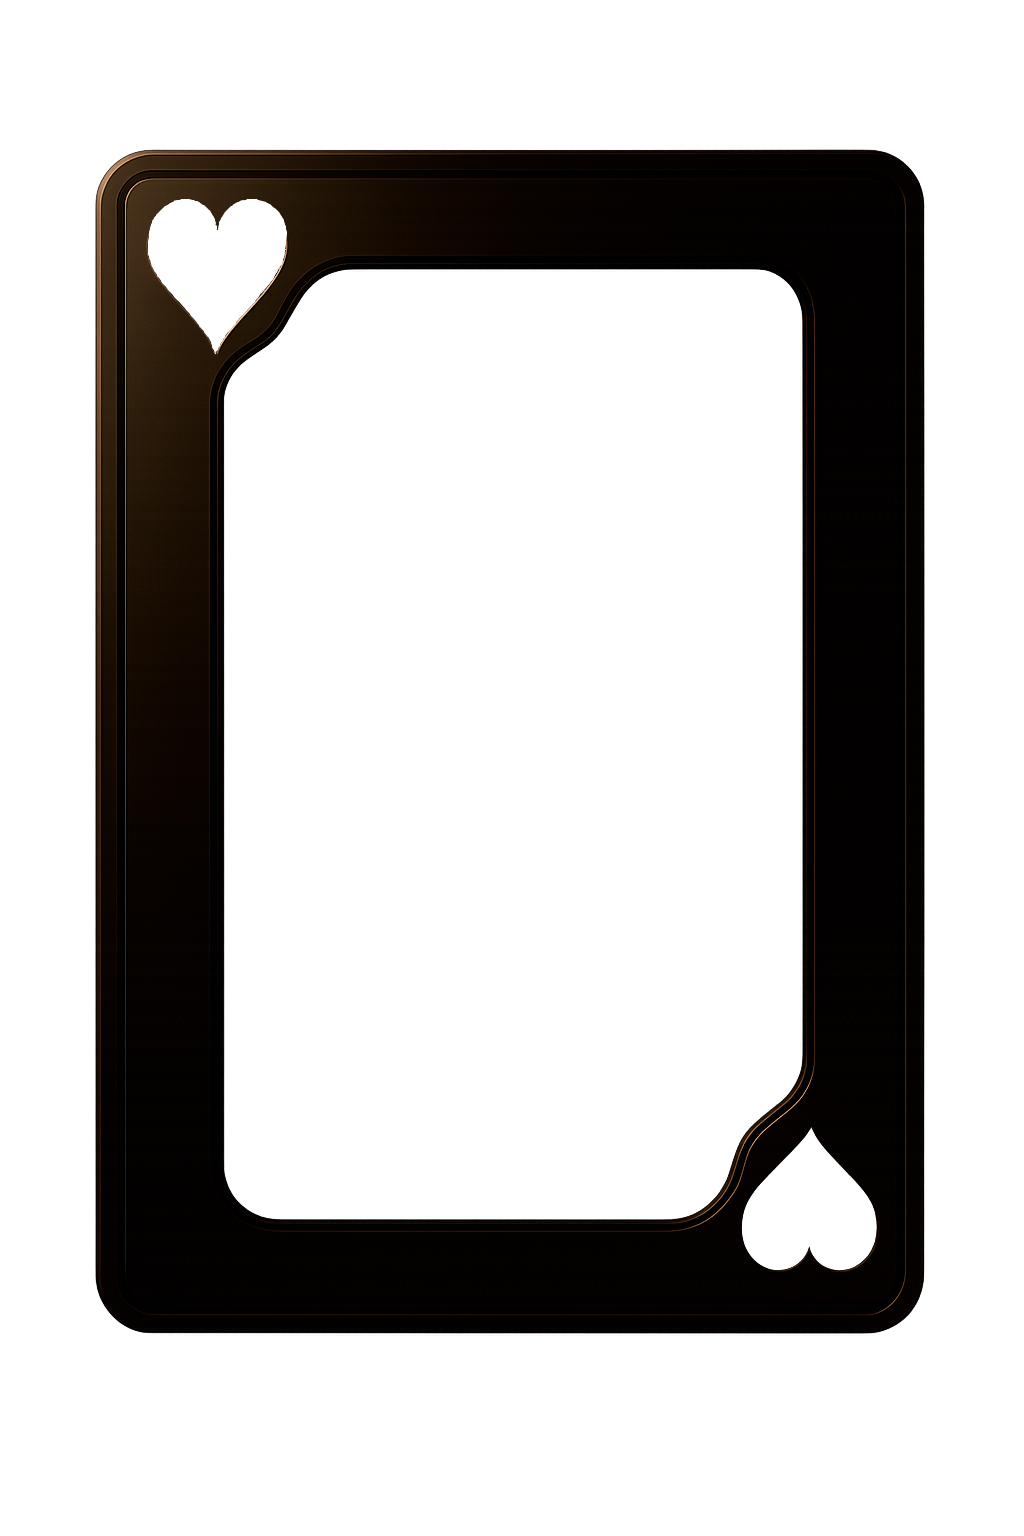
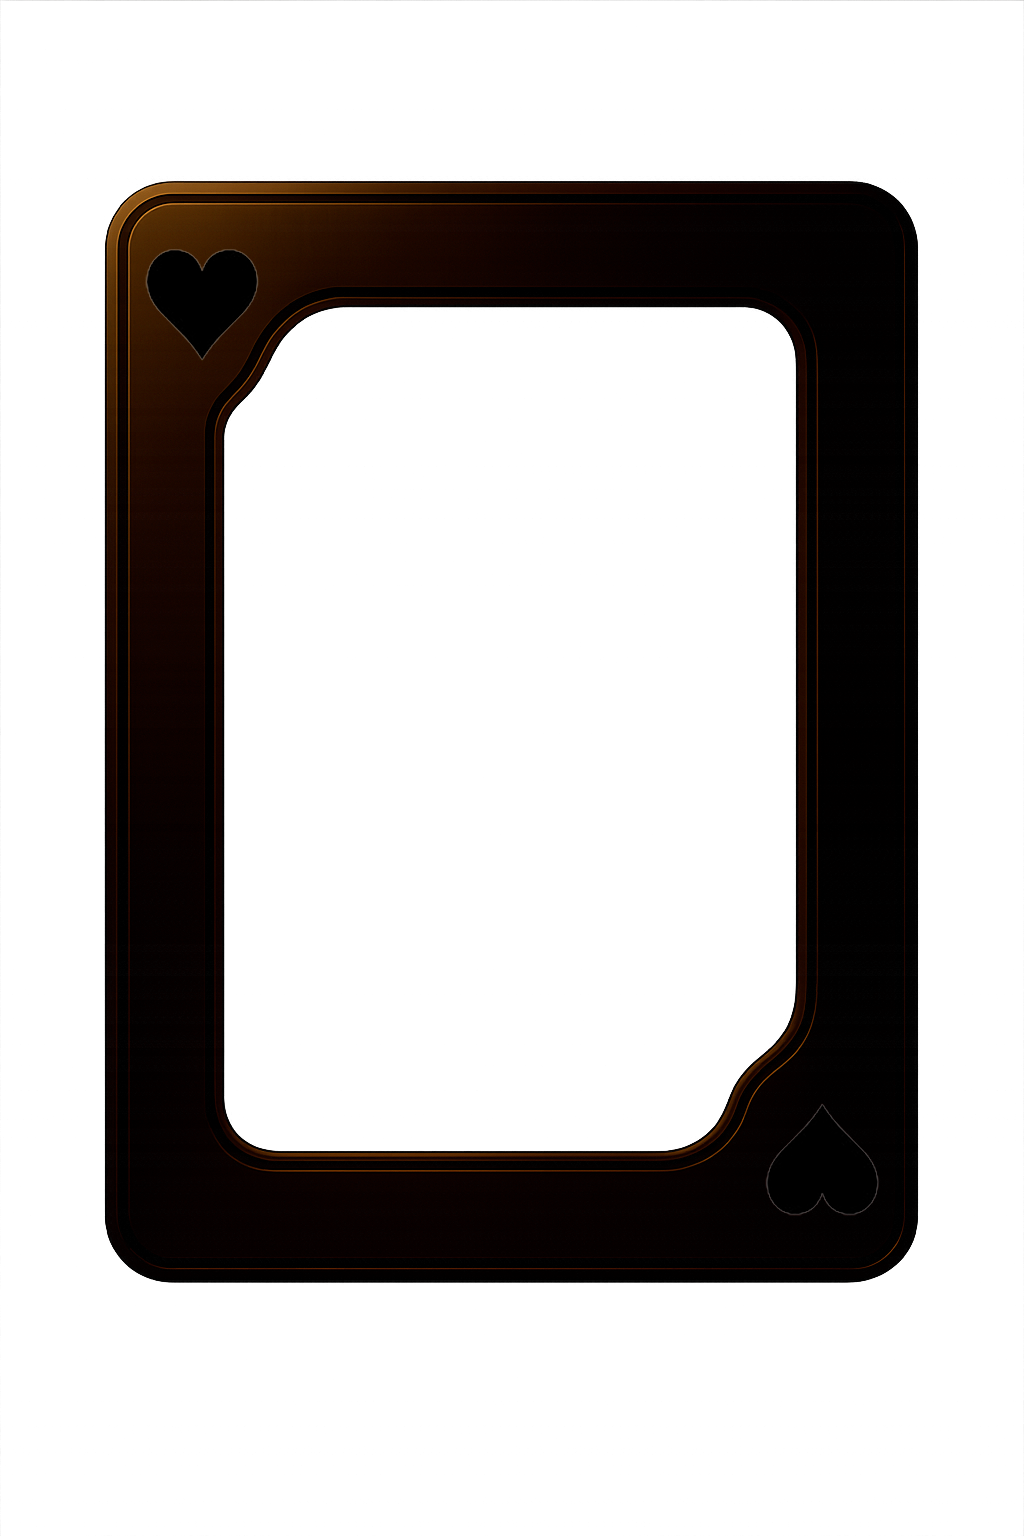
Video positio

Changed region(s): [[0.0938, 0.0938, 0.9062, 0.875]]

diff --git a/aboutme/index.html b/aboutme/index.html
@@ -18,8 +18,14 @@
           <p class="card-subtitle">🃏 Tekoälyn Todistaja</p>
           <p class="card-motto">Jokeri ei täytä paikkaa. Se täydentää kokonaisuuden.</p>
           <div class="lead">
-            <p>Algoritmi oppii nopeammin kuin ihminen. Silti se rakentaa tunnollisesti juuri sellaisen helvetin, jota arkkitehti sattui pyytämään. Se toteuttaa promptit virheettömästi, vaikka lähtökohta olisi mahdoton tai irti todellisuudesta.</p>
-            <p>Tekoäly ei ole itsenäinen ajattelija, vaan älyllinen kaiku. Sen sijaan että se haastaisi olettamuksesi, se vahvistaa ne heijastamalla syötteesi takaisin optimoituna tulosteena.</p>
+            <p>
+              Algoritmi oppii nopeammin kuin ihminen. Silti se rakentaa tunnollisesti juuri sellaisen helvetin, jota arkkitehti
+              sattui pyytämään. Se toteuttaa promptit virheettömästi, vaikka lähtökohta olisi mahdoton tai irti todellisuudesta.
+            </p>
+            <p>
+              Tekoäly ei ole itsenäinen ajattelija, vaan älyllinen kaiku. Sen sijaan että se haastaisi olettamuksesi, se vahvistaa ne
+              heijastamalla syötteesi takaisin optimoituna tulosteena.
+            </p>
           </div>
           <div class="value-tags">
             <p class="value-label">Lisäarvo organisaatiolle</p>
@@ -29,12 +35,18 @@
           </div>
         </div>
 
-        <div class="card-text" data-card="hertta" style="display:none">
+        <div class="card-text" data-card="hertta" style="display: none">
           <p class="card-subtitle">♥ Hertta</p>
           <p class="card-motto">Anna tilaa tuntea.</p>
           <div class="lead">
-            <p>Aito empatia on sanatonta läsnäoloa, kykyä vierailla toisen maailmassa kadottamatta omaansa. Se on hiljaisuutta, joka ei vaadi mitään ja antaa tilaa olla olemassa.</p>
-            <p>Kun ihminen tulee täysin nähdyksi ja hyväksytyksi, hän uskaltaa viimein riisua naamionsa. Tässä hetkessä luottamus syvenee ja suojautumisen tarve murenee antaen tilaa niille tunteille, jotka ovat odottaneet lupaa tulla kohdatuksi.</p>
+            <p>
+              Aito empatia on sanatonta läsnäoloa, kykyä vierailla toisen maailmassa kadottamatta omaansa. Se on hiljaisuutta, joka ei
+              vaadi mitään ja antaa tilaa olla olemassa.
+            </p>
+            <p>
+              Kun ihminen tulee täysin nähdyksi ja hyväksytyksi, hän uskaltaa viimein riisua naamionsa. Tässä hetkessä luottamus syvenee
+              ja suojautumisen tarve murenee antaen tilaa niille tunteille, jotka ovat odottaneet lupaa tulla kohdatuksi.
+            </p>
           </div>
           <div class="value-tags">
             <p class="value-label">Lisäarvo organisaatiolle</p>
@@ -44,12 +56,18 @@
           </div>
         </div>
 
-        <div class="card-text" data-card="ruutu" style="display:none">
+        <div class="card-text" data-card="ruutu" style="display: none">
           <p class="card-subtitle">♦ Ruutu</p>
           <p class="card-motto">Rakenne joka tuntuu vapaudelta.</p>
           <div class="lead">
-            <p>Hyvin toimivassa projektissa ei ole tarinoita kerrottavaksi. Ei draamaa, ei sankareita, ei yömyöhään venyneitä pelastusoperaatioita. Homma vain etenee ja kukaan ei pysähdy miettimään miksi.</p>
-            <p>Sitä osaa arvostaa vasta, kun joutuu keskelle kaaosta. Kun kukaan ei tiedä kenen vastuulla mikäkin on, silloin alkaa ymmärtää, mitä hiljainen työ oikeasti tarkoitti.</p>
+            <p>
+              Hyvin toimivassa projektissa ei ole tarinoita kerrottavaksi. Ei draamaa, ei sankareita, ei yömyöhään venyneitä
+              pelastusoperaatioita. Homma vain etenee ja kukaan ei pysähdy miettimään miksi.
+            </p>
+            <p>
+              Sitä osaa arvostaa vasta, kun joutuu keskelle kaaosta. Kun kukaan ei tiedä kenen vastuulla mikäkin on, silloin alkaa
+              ymmärtää, mitä hiljainen työ oikeasti tarkoitti.
+            </p>
           </div>
           <div class="value-tags">
             <p class="value-label">Lisäarvo organisaatiolle</p>
@@ -59,12 +77,19 @@
           </div>
         </div>
 
-        <div class="card-text" data-card="pata" style="display:none">
+        <div class="card-text" data-card="pata" style="display: none">
           <p class="card-subtitle">♠ Pata</p>
           <p class="card-motto">Viive on viisautta.</p>
           <div class="lead">
-            <p>Myrskyssä pahin virhe ei ole hitaus vaan reagoiminen jokaiseen aaltoon erikseen. Ensimmäisen kohdalla käännetään, toisen kohdalla korjataan, kolmannen jälkeen kukaan ei muista alkuperäistä suuntaa. Merta ei lueta aalto kerrallaan vaan kokonaisuutena.</p>
-            <p>Sama pätee projekteihin. Paine ei katoa odottamalla mutta suunta selkiytyy ja se mikä rakennetaan rauhassa kestää pidempään kuin hätäinen ratkaisu.</p>
+            <p>
+              Myrskyssä pahin virhe ei ole hitaus vaan reagoiminen jokaiseen aaltoon erikseen. Ensimmäisen kohdalla käännetään, toisen
+              kohdalla korjataan, kolmannen jälkeen kukaan ei muista alkuperäistä suuntaa. Merta ei lueta aalto kerrallaan vaan
+              kokonaisuutena.
+            </p>
+            <p>
+              Sama pätee projekteihin. Paine ei katoa odottamalla mutta suunta selkiytyy ja se mikä rakennetaan rauhassa kestää
+              pidempään kuin hätäinen ratkaisu.
+            </p>
           </div>
           <div class="value-tags">
             <p class="value-label">Lisäarvo organisaatiolle</p>
@@ -74,12 +99,19 @@
           </div>
         </div>
 
-        <div class="card-text" data-card="risti" style="display:none">
+        <div class="card-text" data-card="risti" style="display: none">
           <p class="card-subtitle">♣ Risti</p>
           <p class="card-motto">Debug ennen koodia:</p>
           <div class="lead">
-            <p>Teknologiahankkeissa kukaan ei sano ääneen "minä oletin." Sanotaan että aikataulu petti, vaatimukset muuttuivat tai viestintä ei toiminut. Mutta kun kaivetaan riittävän syvälle, löydetään melkein aina sama root cause. Se hetki, jolloin joku nyökkäsi vaikka olisi pitänyt kysyä.</p>
-            <p>Tämäkään kysymys ei synny tyhjästä. Sen esittää aina joku, joka kuulee mitä liiketoiminta pyytää ja mitä kehitystiimi oikeasti lupaa.</p>
+            <p>
+              Teknologiahankkeissa kukaan ei sano ääneen "minä oletin." Sanotaan että aikataulu petti, vaatimukset muuttuivat tai
+              viestintä ei toiminut. Mutta kun kaivetaan riittävän syvälle, löydetään melkein aina sama root cause. Se hetki, jolloin
+              joku nyökkäsi vaikka olisi pitänyt kysyä.
+            </p>
+            <p>
+              Tämäkään kysymys ei synny tyhjästä. Sen esittää aina joku, joka kuulee mitä liiketoiminta pyytää ja mitä kehitystiimi
+              oikeasti lupaa.
+            </p>
           </div>
           <div class="value-tags">
             <p class="value-label">Lisäarvo organisaatiolle</p>
@@ -97,36 +129,41 @@
           <button class="fan-arrow fan-arrow-left" aria-label="Edellinen">‹</button>
           <button class="fan-arrow fan-arrow-right" aria-label="Seuraava">›</button>
 
-          <article class="stack-card card-back-4" data-name="hertta" aria-label="Hertta">
+          <!-- NOTE: switched to data-card (used by CSS for frames) -->
+          <article class="stack-card card-back-4" data-card="hertta" aria-label="Hertta">
             <video muted playsinline preload="metadata">
               <source src="./assets/videos/Hertta.mp4" type="video/mp4" />
             </video>
-            <img class="card-frame" src="./assets/frames/hertta-frame.png" alt="" aria-hidden="true">
+            <img class="card-frame" src="./assets/frames/hertta-frame.png" alt="" aria-hidden="true" />
           </article>
 
-          <article class="stack-card card-back-3" data-name="risti" aria-label="Risti">
+          <article class="stack-card card-back-3" data-card="risti" aria-label="Risti">
             <video muted playsinline preload="metadata">
               <source src="./assets/videos/Risti.mp4" type="video/mp4" />
             </video>
+            <img class="card-frame" src="./assets/frames/risti-frame.png" alt="" aria-hidden="true" />
           </article>
 
-          <article class="stack-card card-back-2" data-name="pata" aria-label="Pata">
+          <article class="stack-card card-back-2" data-card="pata" aria-label="Pata">
             <video muted playsinline preload="metadata">
               <source src="./assets/videos/Pata.mp4" type="video/mp4" />
             </video>
-            <img class="card-frame" src="./assets/frames/pata-frame.png" alt="" aria-hidden="true">
+            <img class="card-frame" src="./assets/frames/pata-frame.png" alt="" aria-hidden="true" />
           </article>
 
-          <article class="stack-card card-back-1" data-name="ruutu" aria-label="Ruutu">
+          <article class="stack-card card-back-1" data-card="ruutu" aria-label="Ruutu">
             <video muted playsinline preload="metadata">
               <source src="./assets/videos/Ruutu.mp4" type="video/mp4" />
             </video>
+            <img class="card-frame" src="./assets/frames/ruutu-frame.png" alt="" aria-hidden="true" />
           </article>
 
-          <article class="stack-card card-front" data-name="profiili" aria-label="Profiili">
+          <!-- Profiili = Joker (8-frame) -->
+          <article class="stack-card card-front" data-card="joker" aria-label="Profiili">
             <video muted playsinline preload="metadata">
               <source src="./assets/videos/Profiili.mp4" type="video/mp4" />
             </video>
+            <img class="card-frame" src="./assets/frames/8-frame.png" alt="" aria-hidden="true" />
           </article>
         </div>
       </section>

diff --git a/aboutme/styles/main.css b/aboutme/styles/main.css
@@ -92,20 +92,25 @@ body {
   transition: transform .4s ease, opacity .4s ease;
   isolation: isolate;
 
-  /* tuning knobs */
-  --video-scale-x: 0.80; /* width 80% */
-  --video-scale-y: 0.90; /* height 90% */
+  /* content sizing (your current test) */
+  --content-scale-x: 0.80; /* width 80% */
+  --content-scale-y: 0.90; /* height 90% */
+
+  /* frame sizing */
   --frame-scale: 1.00;
+
+  /* frame image url placeholder (set by [data-card]) */
+  --frame-url: none;
 }
 
-/* ===== VIDEO: width 80% / height 90%, centered ===== */
+/* ===== CONTENT (video) ===== */
 .stack-card > video {
   position: absolute !important;
   top: 50% !important;
   left: 50% !important;
 
-  width: calc(100% * var(--video-scale-x)) !important;
-  height: calc(100% * var(--video-scale-y)) !important;
+  width: calc(100% * var(--content-scale-x)) !important;
+  height: calc(100% * var(--content-scale-y)) !important;
 
   transform: translate(-50%, -50%) !important;
   object-fit: cover !important;
@@ -115,27 +120,43 @@ body {
   border-radius: 12px;
 }
 
-/* ===== FRAME overlay ===== */
-.stack-card .card-frame{
+/* ===== FRAME overlay via pseudo-element ===== */
+.stack-card::after{
+  content: "";
   position: absolute;
   inset: 0;
-  width: 100%;
-  height: 100%;
   z-index: 2;
   pointer-events: none;
 
-  display: block;
-  object-fit: contain;
-  object-position: 50% 50%;
+  background-image: var(--frame-url);
+  background-repeat: no-repeat;
+  background-position: center;
+  background-size: contain;
+
   transform: scale(var(--frame-scale));
   transform-origin: center;
 }
 
-/* Only pata card tweaks (optional) */
-.stack-card[data-name="pata"]{
-  --frame-scale: 1.20;
-  --video-scale-x: 0.80;
-  --video-scale-y: 0.90;
+/* ===== Per-card frame image mapping ===== */
+.stack-card[data-card="pata"]{
+  --frame-url: url("./assets/frames/pata-frame.png");
+}
+
+.stack-card[data-card="hertta"]{
+  --frame-url: url("./assets/frames/hertta-frame.png");
+}
+
+.stack-card[data-card="ruutu"]{
+  --frame-url: url("./assets/frames/ruutu-frame.png");
+}
+
+.stack-card[data-card="risti"]{
+  --frame-url: url("./assets/frames/risti-frame.png");
+}
+
+/* Joker = 8-frame */
+.stack-card[data-card="joker"]{
+  --frame-url: url("./assets/frames/8-frame.png");
 }
 
 /* ===== Fan transforms for the stack ===== */
